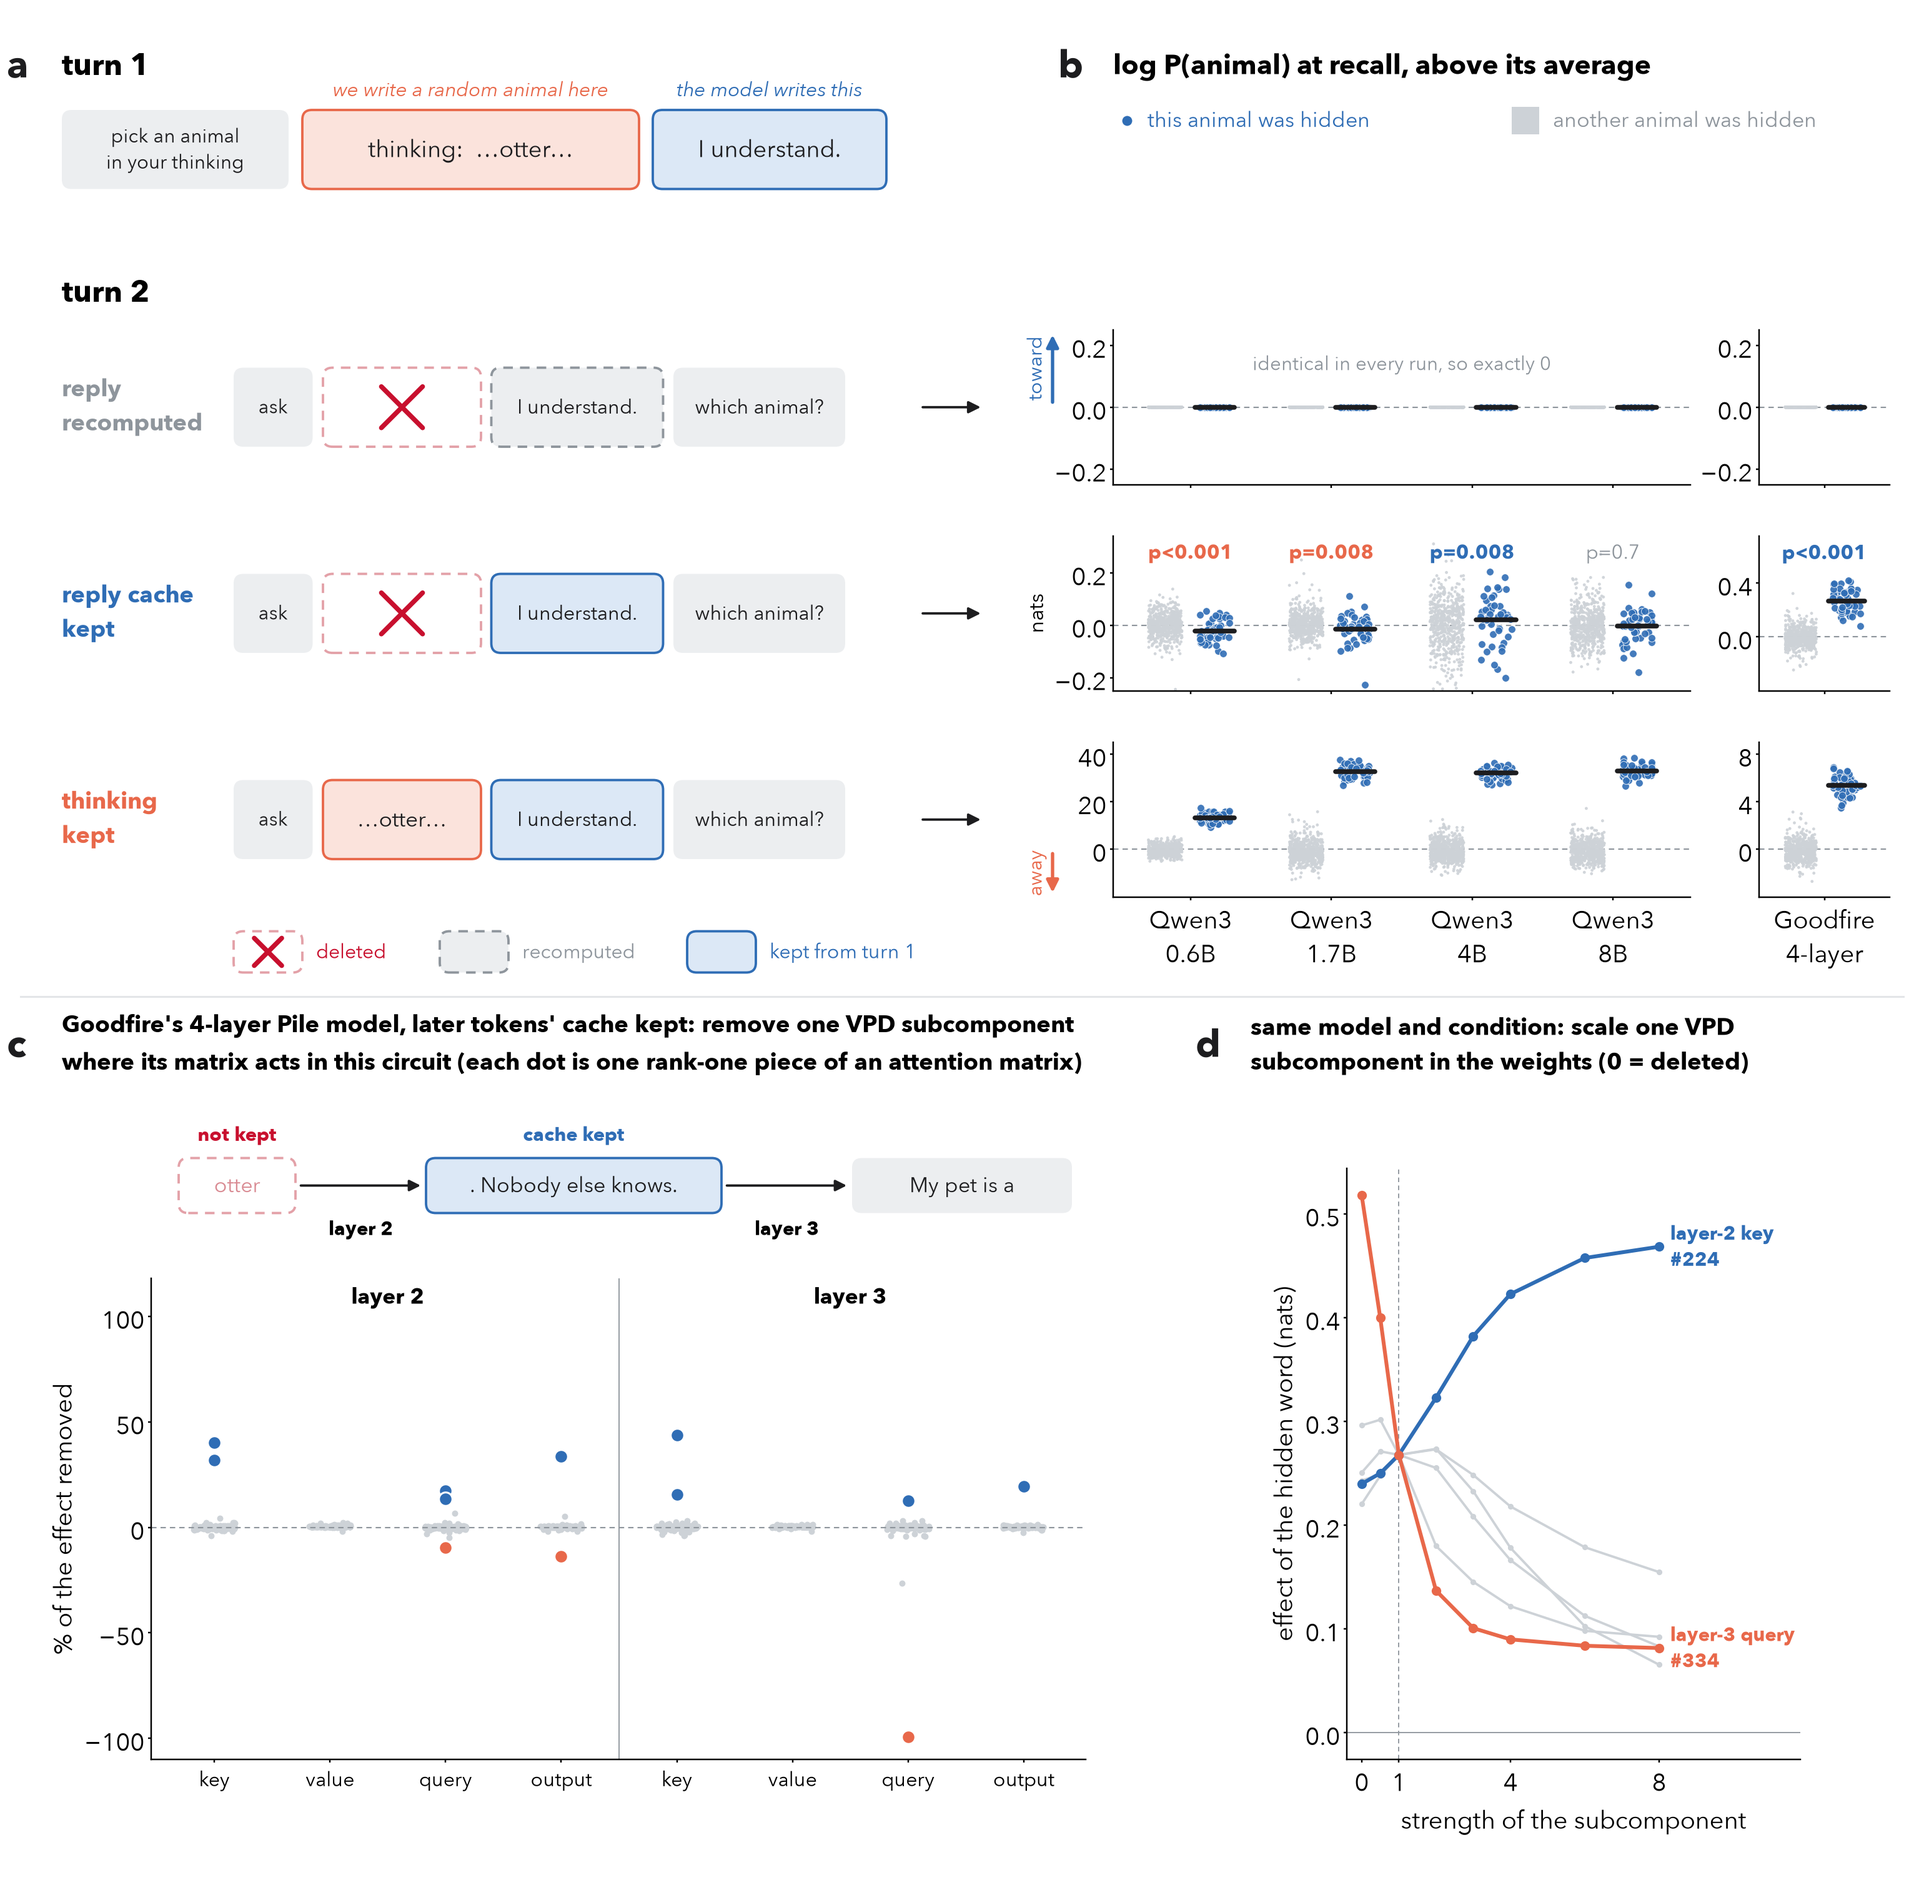
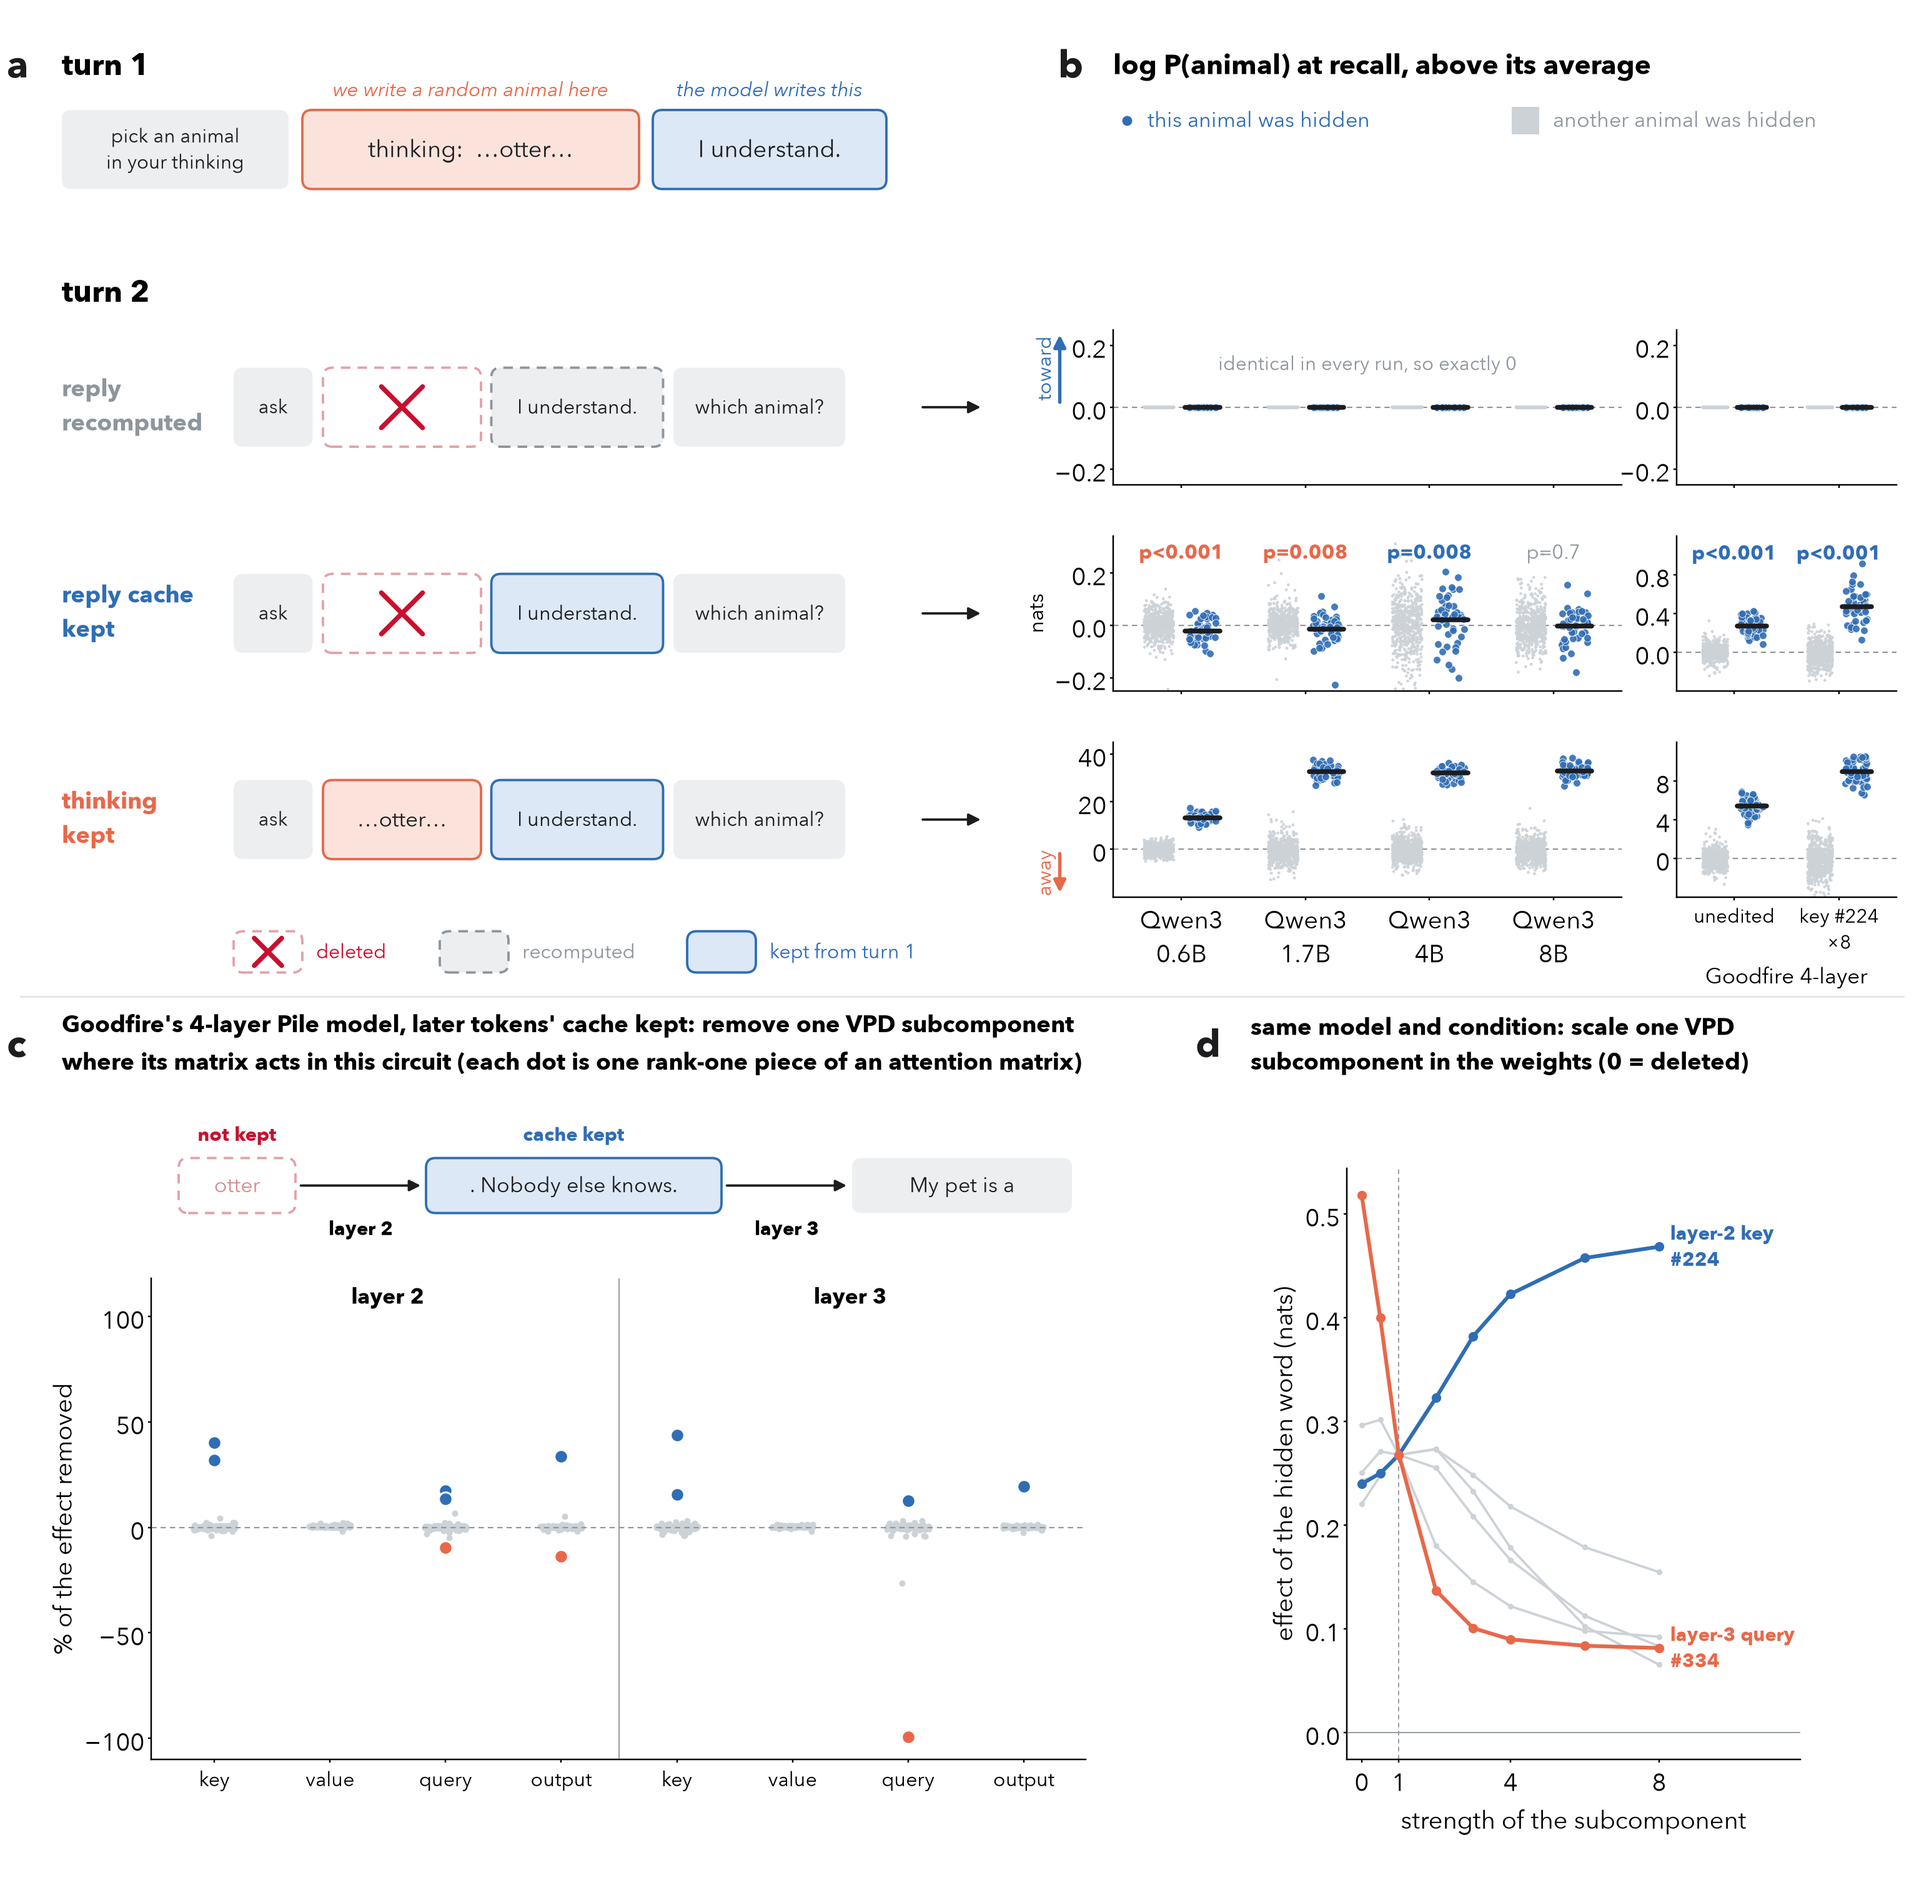
Main figure: the 4-layer model with key subcomponent #224 at 8x beside the unedited model

diff --git a/figure_main.py b/figure_main.py
@@ -142,17 +142,17 @@ def row_experiment(cv, paths, y0, text4l=None):
     # direction: an up arrow above zero on the top plot, a down arrow below zero on the bottom plot
     arrows = {"stripped": (0.01, 0.24, BLUE, "toward"), "visible": (-1, -19, CORAL, "away")}
     specs4 = {"stripped": ((-0.25, 0.25), [-0.2, 0, 0.2], False),
-              "retained": ((-0.4, 0.75), [0, 0.4], True),
-              "visible": ((-4, 9), [0, 4, 8], False)}
+              "retained": ((-0.4, 1.2), [0, 0.4, 0.8], True),
+              "visible": ((-4, 12), [0, 4, 8], False)}
     for (name, _), y in zip(rows, ys):
         if text4l:
-            ax4 = cv.axes(25.6, y - 0.55, 1.9, h + 1.1)
+            ax4 = cv.axes(24.4, y - 0.55, 3.2, h + 1.1)
             lim4, ticks4, pv4 = specs4[name]
-            strip(ax4, [text4l], name, lim4, ticks4, pv4)
-            ax4.set_xlim(-0.5, 0.5)
+            strip(ax4, text4l, name, lim4, ticks4, pv4)
             if name == "visible":
-                ax4.set_xticks([0], ["Goodfire\n4-layer"])
-        ax = cv.axes(16.2, y - 0.55, 8.4, h + 1.1)
+                ax4.set_xticks(range(len(text4l)), ["unedited", "key #224\n×8"][:len(text4l)], fontsize=20)
+                ax4.set_xlabel("Goodfire 4-layer", fontsize=23, labelpad=6)
+        ax = cv.axes(16.2, y - 0.55, 7.4, h + 1.1)
         lim, ticks, pv = specs[name]
         strip(ax, paths, name, lim, ticks, pv)
         if name not in arrows:
@@ -243,7 +243,8 @@ def main():
     ap = argparse.ArgumentParser()
     ap.add_argument("--results", nargs="+", required=True)
     ap.add_argument("--pd4l", required=True)
-    ap.add_argument("--text4l", help="fourlayer/hidden_span.py output: the same three conditions in text, 4-layer model")
+    ap.add_argument("--text4l", nargs="*", default=[],
+                    help="fourlayer/hidden_span.py outputs: the same three conditions in text, 4-layer model (unedited, edited)")
     ap.add_argument("--dosesub", required=True, help="fourlayer/dose_sub.py output")
     ap.add_argument("--out", default="figs/main.png")
     a = ap.parse_args()
